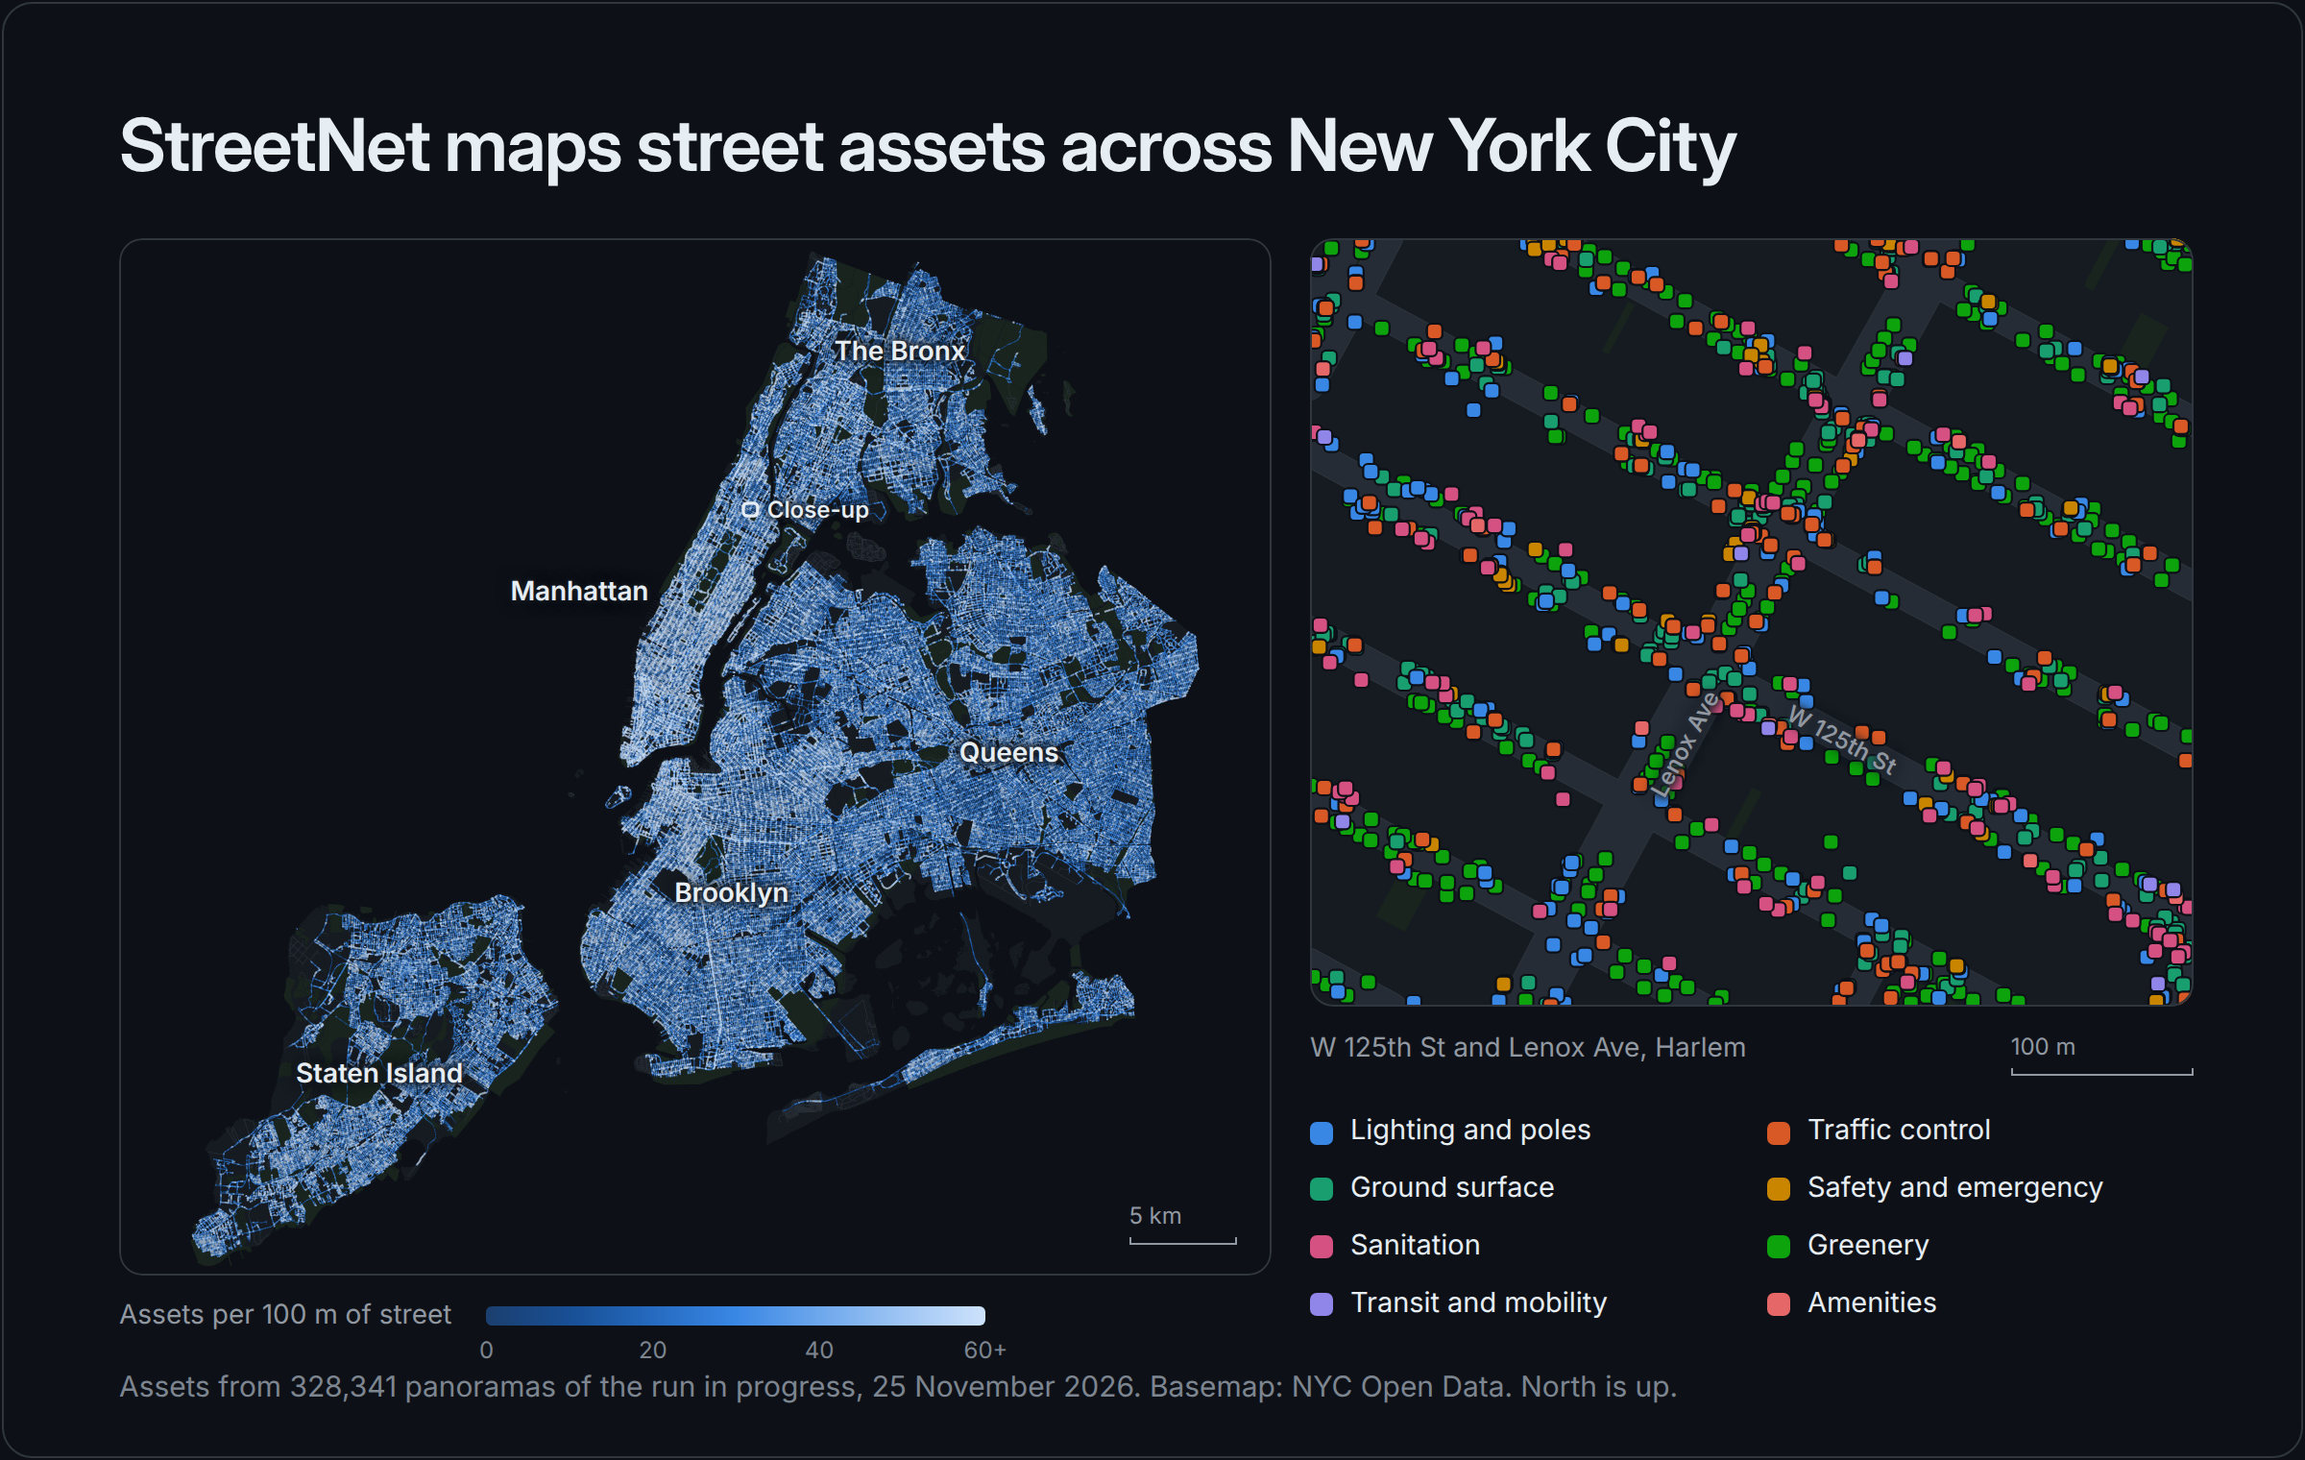
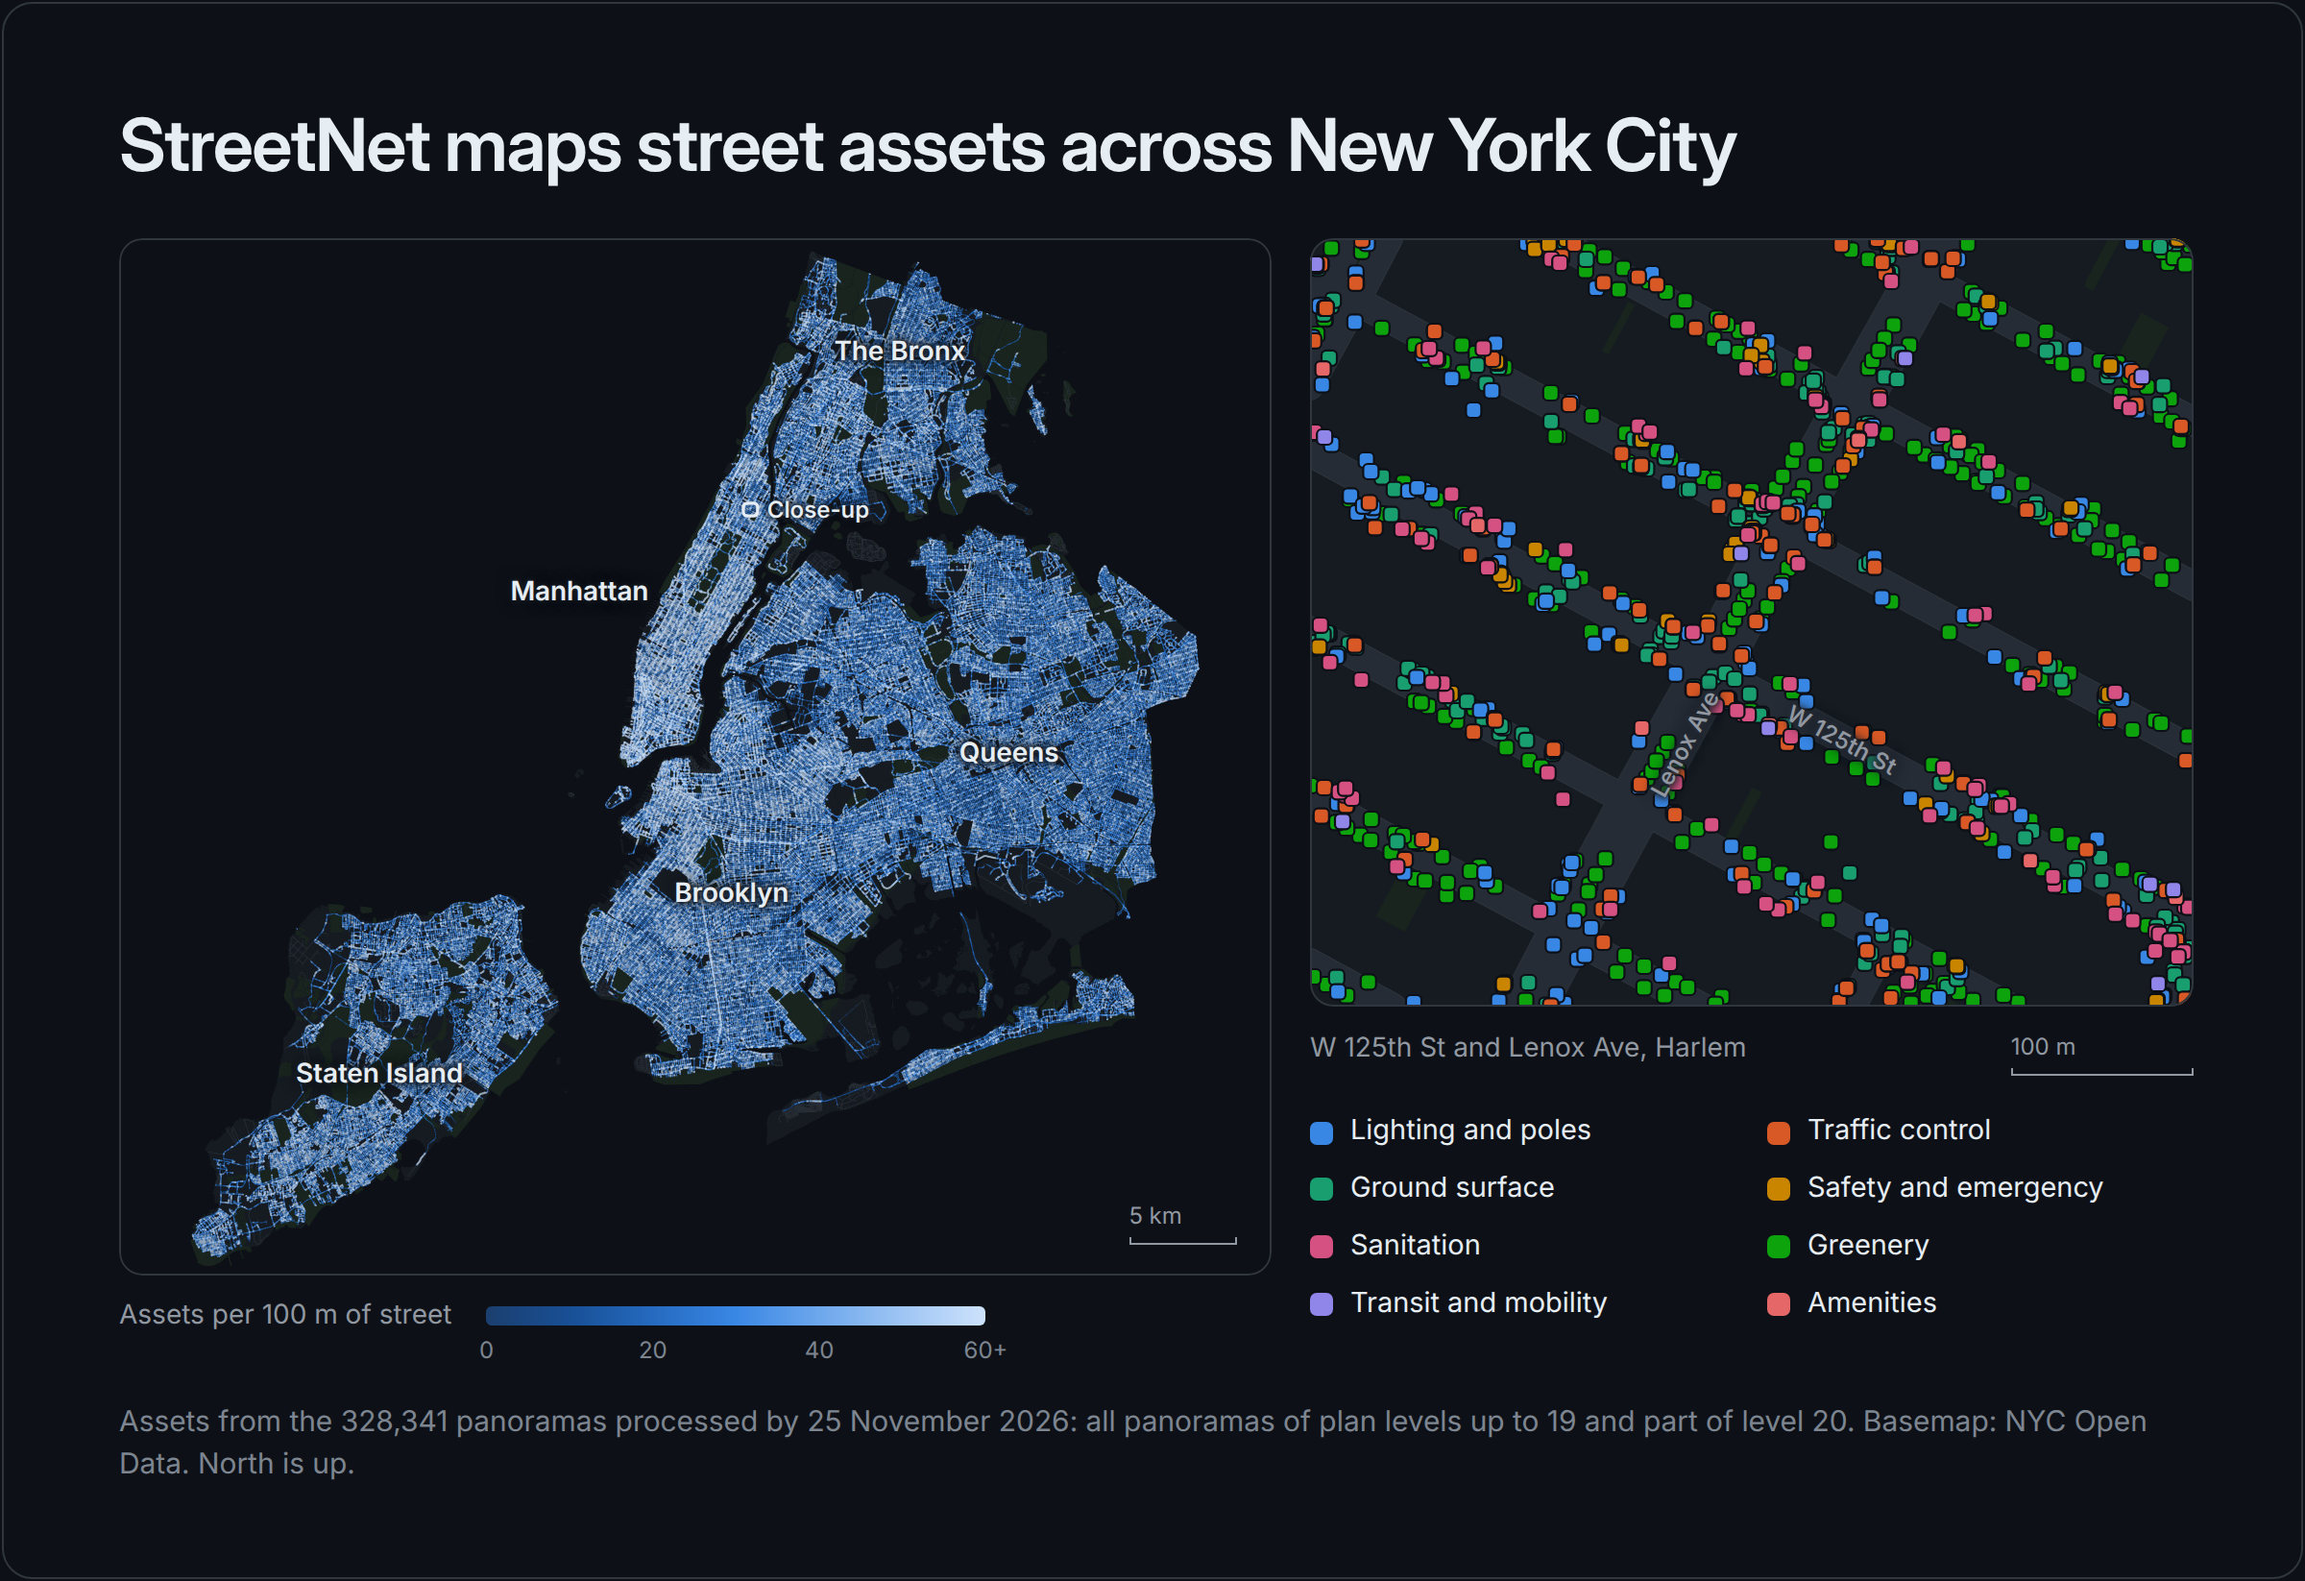
Map figure: the caption states the panoramas of the map; slides can size to their content
The caption of the map figure now says which panoramas the map was built from (for this figure, the
328,341 panoramas processed by 25 November 2026: plan levels up to 19 and part of level 20), so the
density of the citywide panel is read against its sampling. render.py accepts data-size="1200xauto"
and gives such a slide the height of its content, which lets the caption run to several lines.

diff --git a/tools/figures/slides/nyc_map.html b/tools/figures/slides/nyc_map.html
@@ -37,12 +37,12 @@
   .zcap { font-size: 14px; color: var(--text-2); }
   .groups { display: grid; grid-template-columns: 1fr 1fr; row-gap: 11px; column-gap: 16px; margin-top: 20px; }
   .groups .key { font-size: 14.5px; }
-  .note { margin-top: auto; }
+  .note { margin-top: 18px; }
   :root { --halo: #ffffff; --road: #ffffff; }
   :root[data-theme="dark"] { --halo: #161b22; --road: #262c35; }
 </style>
 </head>
-<body data-size="1200x760" data-format="jpg" data-quality="84">
+<body data-size="1200xauto" data-format="jpg" data-quality="84">
 <div class="slide">
   <h1>StreetNet maps street assets across New York City</h1>
   <div class="panels">

diff --git a/tools/figures/render.py b/tools/figures/render.py
@@ -5,7 +5,7 @@
     python tools/figures/render.py overview map    # some slides
 
 Each slide is an HTML page tools/figures/slides/<name>.html whose <body> gives its CSS size
-(data-size="1200x620"), its file format (data-format="png" or "jpg", with data-quality for JPEG) and its
+(data-size="1200x620", or "1200xauto" for the height of its content), its file format (data-format="png" or "jpg", with data-quality for JPEG) and its
 themes (data-themes, default "light dark"). Headless Chromium renders it at twice the CSS size, once per theme (the
 page reads ?theme=light|dark). Output: docs/assets/figures/<name>.<ext> for the light theme and
 <name>-dark.<ext> for the dark theme. The pages are served over a local HTTP server rooted at the
@@ -73,7 +73,8 @@ def slide_meta(path: Path) -> dict:
     head = path.read_text()
     m = re.search(r"<body([^>]*)>", head)
     attrs = dict(re.findall(r'data-([a-z]+)="([^"]*)"', m.group(1) if m else ""))
-    w, h = (int(v) for v in attrs.get("size", "1200x600").split("x"))
+    w, h = attrs.get("size", "1200x600").split("x")
+    w, h = int(w), (0 if h == "auto" else int(h))         # auto: the height of the slide's content
     return {"w": w, "h": h, "format": attrs.get("format", "png"), "themes": attrs.get("themes", "light dark").split(),
             "quality": int(attrs.get("quality", JPEG_QUALITY))}
 
@@ -111,12 +112,16 @@ async def render(names: list[str], check_only: bool = False) -> int:
         for name in names:
             meta = slide_meta(SLIDES / f"{name}.html")
             for theme in meta["themes"]:
-                page = await browser.new_page(viewport={"width": meta["w"], "height": meta["h"]},
+                page = await browser.new_page(viewport={"width": meta["w"], "height": meta["h"] or 2400},
                                               device_scale_factor=SCALE)
                 await page.goto(f"http://127.0.0.1:{port}/tools/figures/slides/{name}.html?theme={theme}")
                 await page.evaluate("document.fonts.ready")
                 await page.wait_for_function("[...document.images].every(i => i.complete && i.naturalWidth > 0)")
                 await page.evaluate("window.slideReady || true")
+                if not meta["h"]:
+                    h = await page.evaluate("""() => { const s = document.querySelector('.slide'); s.style.height = 'auto';
+                        const h = Math.ceil(s.getBoundingClientRect().height) + 2; s.style.height = ''; return h; }""")
+                    await page.set_viewport_size({"width": meta["w"], "height": h})
                 await page.wait_for_timeout(150)
                 issues = await page.evaluate(CHECK_JS)
                 for s in issues:
@@ -126,7 +131,8 @@ async def render(names: list[str], check_only: bool = False) -> int:
                     ext = meta["format"]
                     out = OUT / (f"{name}.{ext}" if theme == meta["themes"][0] else f"{name}-{theme}.{ext}")
                     size = save(await page.screenshot(type="png"), out, ext, meta["quality"])
-                    print(f"[render] {out.relative_to(ROOT)}  {meta['w'] * SCALE}x{meta['h'] * SCALE}  {size / 1024:.0f} KB")
+                    vp = page.viewport_size
+                    print(f"[render] {out.relative_to(ROOT)}  {vp['width'] * SCALE}x{vp['height'] * SCALE}  {size / 1024:.0f} KB")
                 await page.close()
         await browser.close()
     httpd.shutdown()
